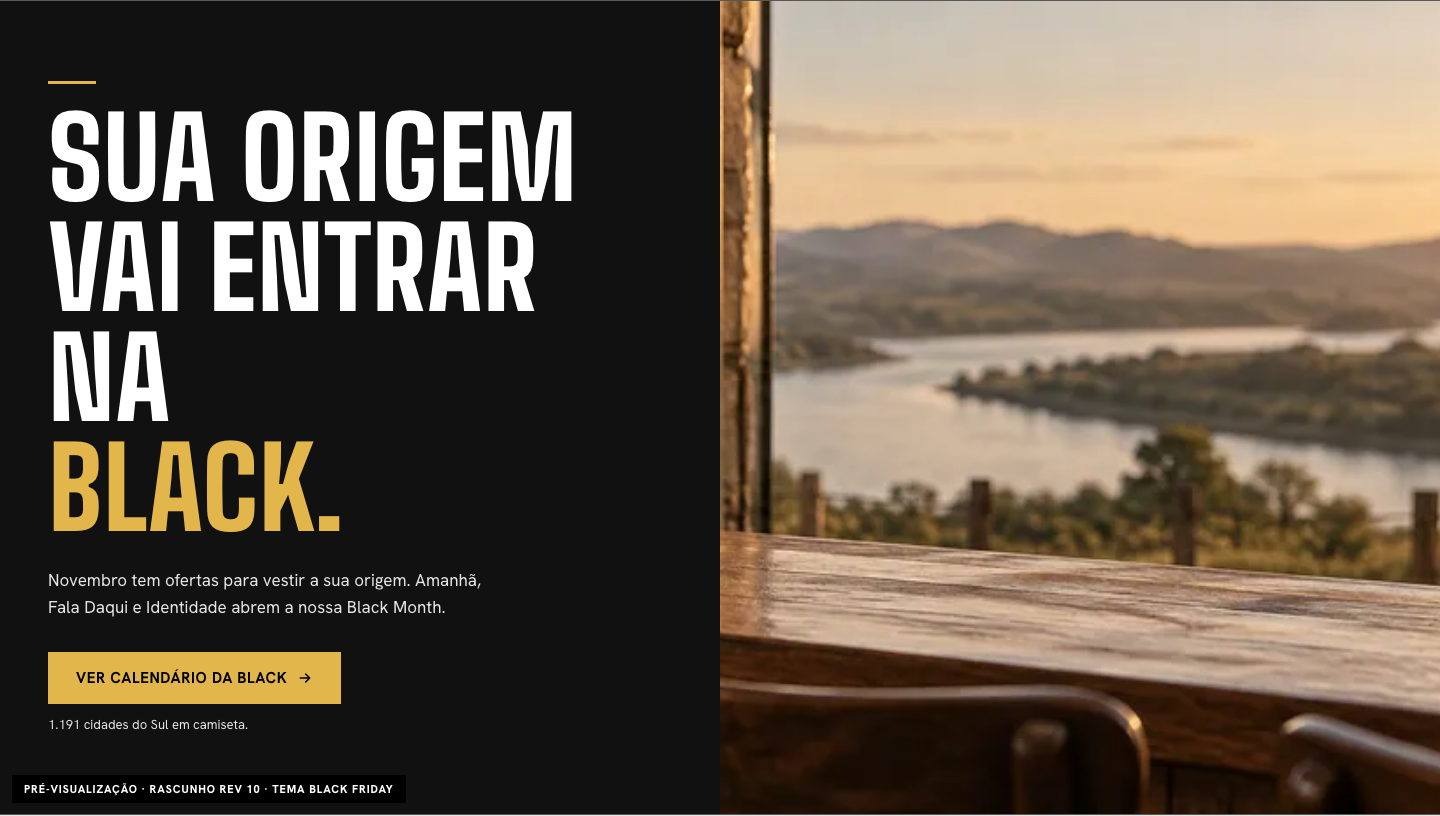
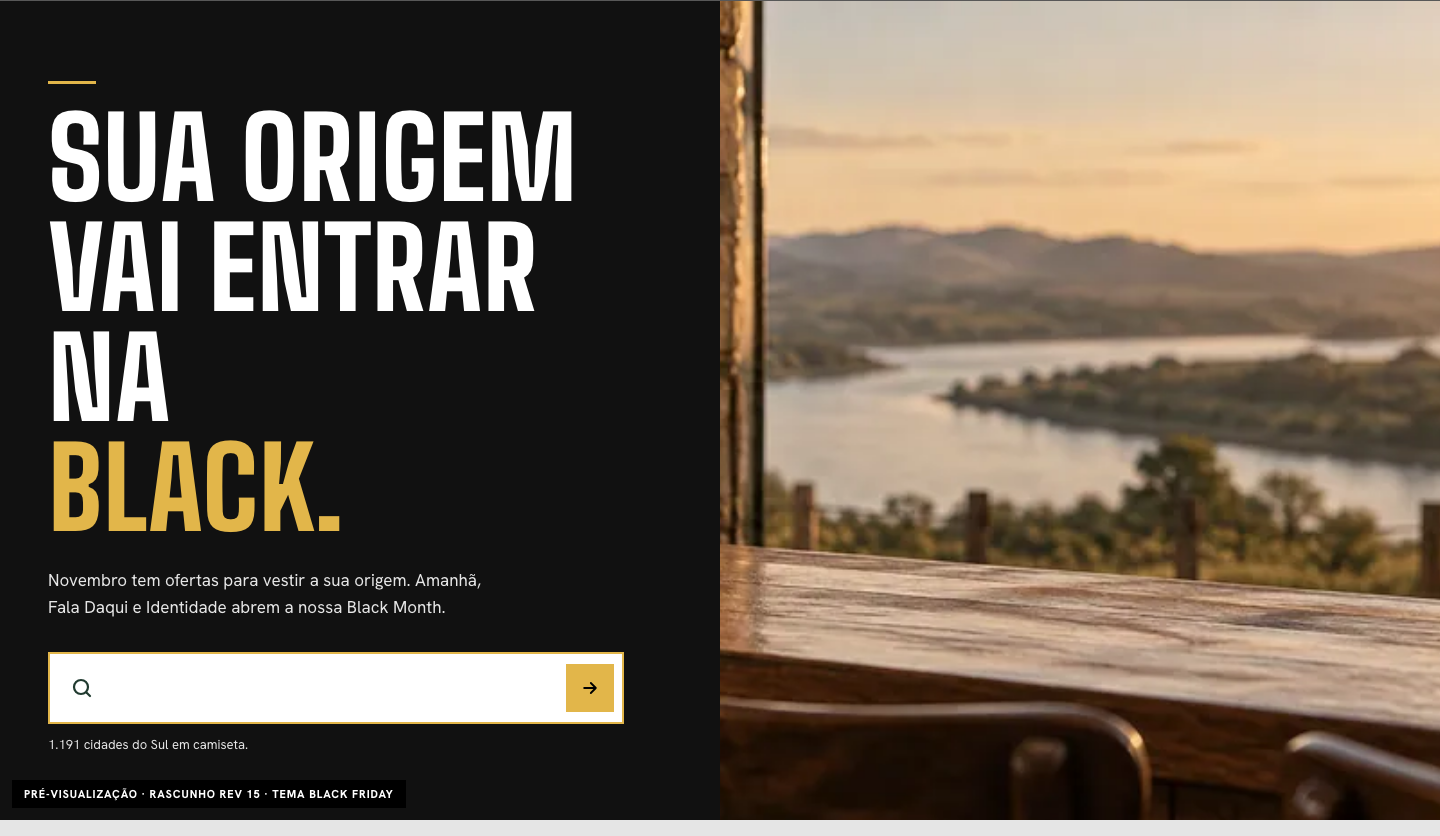
feat(storefront): botão na faixa de checkpoints ("Ver calendário da Black")
Pedido do dono: a abertura da home volta a ter a busca, e o caminho para o calendário fica na faixa das semanas, com um
botão ao lado do título (como o "Ver todos" das vitrines). O botão é editado no painel quando a composição é Checkpoints.

diff --git a/src/components/home/WeeklyCheckpoints.tsx b/src/components/home/WeeklyCheckpoints.tsx
@@ -85,12 +85,13 @@ function Card({ href, external, current, className, style, children }: { href: s
  * Phones keep it short: the current and the evidence weeks as cards, every other week as one line. From 1024px, all side by side. Server-rendered:
  * the lock turns when the page is regenerated after Brasília midnight.
  */
-export function WeeklyCheckpoints({ anchor, headingId, title, subtitle, items, opening = false }: { anchor: string; headingId: string; title: string; subtitle?: string; items: CheckpointView[]; /** It opens the page (the page hero hidden): its title is the page's h1, in the display face, under the opening's yellow rule. */ opening?: boolean }) {
+export function WeeklyCheckpoints({ anchor, headingId, title, subtitle, items, opening = false, cta }: { anchor: string; headingId: string; title: string; subtitle?: string; items: CheckpointView[]; /** It opens the page (the page hero hidden): its title is the page's h1, in the display face, under the opening's yellow rule. */ opening?: boolean; /** The strip's own button ("Ver calendário da Black"), beside its title like a shelf's "Ver todos". */ cta?: { label: string; href: string } }) {
   const running = items.find((it) => it.state === "current");
   const cols = { "--cp-cols": items.map((it) => (it.highlight ? "1.3fr" : "1fr")).join(" "), "--cp-n": `repeat(${items.length}, minmax(0, 1fr))` } as CSSProperties;
   return (
     <section id={anchor} aria-labelledby={headingId} className={`wrap ${opening ? "pb-12 pt-10 lg:pb-20 lg:pt-16" : "py-12 lg:py-20"}`} data-testid="checkpoints">
-      <div className="ground-plate mb-7 w-fit max-w-3xl lg:mb-9">
+      <div className="mb-7 flex flex-wrap items-end justify-between gap-x-6 gap-y-4 lg:mb-9">
+      <div className="ground-plate w-fit max-w-3xl">
         {opening ? (
           <>
             <span aria-hidden="true" className="mb-4 block h-[3px] w-12" style={{ background: HIGHLIGHT }} />
@@ -100,6 +101,13 @@ export function WeeklyCheckpoints({ anchor, headingId, title, subtitle, items, o
           <h2 id={headingId} className="t-h2 [text-wrap:balance]">{title}</h2>
         )}
         {subtitle && <p className={`t-body max-w-[60ch] text-ink-soft ${opening ? "mt-4" : "mt-2.5"}`}>{subtitle}</p>}
+      </div>
+      {cta && (
+        <a href={cta.href} className="ground-solid group inline-flex h-11 shrink-0 items-center gap-2 border-2 border-[var(--line)] px-4 text-[0.8125rem] font-bold uppercase tracking-[0.04em] transition-colors hover:border-current focus-visible:outline focus-visible:outline-2 focus-visible:outline-offset-4 sm:h-12">
+          {cta.label}
+          <Arrow />
+        </a>
+      )}
       </div>
       <div style={cols}>
         <p className="sr-only">{running ? `Em oferta agora: ${running.label}${running.period ? `, ${running.period}` : ""}.` : "Nenhuma semana em oferta hoje."}</p>

diff --git a/src/components/admin/SectionEditorForm.tsx b/src/components/admin/SectionEditorForm.tsx
@@ -399,14 +399,15 @@ export function SectionEditorForm({
         </fieldset>
       )}
 
-      {!regional && (section.template === "campaign" || section.template === "page-hero") && (
+      {!regional && (section.template === "campaign" || section.template === "page-hero" || (section.template === "image-grid" && variantNow === "checkpoints")) && (
         <fieldset className="space-y-4">
           <legend className="a-h2 mb-3">Botão</legend>
+          {section.template === "image-grid" && <p className="a-muted text-[0.8125rem]">Ao lado do título da faixa, como o “Ver todos” das vitrines: por exemplo “Ver calendário da Black”, levando para a hotpage do calendário.</p>}
           <div className="grid gap-4 md:grid-cols-2">
             <div>
               <label className="a-label" htmlFor="cta_kind">Destino</label>
               <select id="cta_kind" name="cta_kind" className="a-select" value={ctaKind} onChange={(e) => setCtaKind(e.target.value as typeof ctaKind)}>
-                <option value="none">Busca de cidade (padrão)</option>
+                <option value="none">{section.template === "image-grid" ? "Sem botão" : "Busca de cidade (padrão)"}</option>
                 <option value="collection-page">Página de uma coleção (no site)</option>
                 <option value="route">Página desta região (endereço)</option>
                 <option value="page">Hotpage ou categoria-pai publicada</option>

diff --git a/src/components/home/HomeSections.tsx b/src/components/home/HomeSections.tsx
@@ -330,7 +330,8 @@ export function HomeSections({
               }));
               // On a page whose hero gives way (hidden), the strip opens it: its title is the page's heading.
               const opening = Boolean(page) && !sections.some((x) => x.template === "page-hero") && sections[0]?.id === s.id;
-              return <WeeklyCheckpoints key={s.id} anchor={s.anchor} headingId={s.headingId} title={s.title} subtitle={s.subtitle} items={items} opening={opening} />;
+              const stripHref = s.cta ? destinationHref(s.cta.dest, links, region) : null;
+              return <WeeklyCheckpoints key={s.id} anchor={s.anchor} headingId={s.headingId} title={s.title} subtitle={s.subtitle} items={items} opening={opening} {...(s.cta && stripHref ? { cta: { label: s.cta.label, href: stripHref } } : {})} />;
             }
             const tiles = gridTiles(s, media, links, region, categories);
             if (tiles.length === 0) return null;

diff --git a/src/lib/admin/section-form.ts b/src/lib/admin/section-form.ts
@@ -332,6 +332,8 @@ export function parseSectionForm(f: Fields, section: Section): Partial<Editable>
     patch.customizerCard = undefined;
     patch.cta = undefined;
   }
+  // The checkpoints strip's button ("Ver calendário da Black"), posted only while that composition is chosen.
+  if (section.template === "image-grid" && f.get("cta_kind") !== null) patch.cta = parseCta(f);
   if (section.template === "campaign") {
     patch.fallback = str(f, "fallback") === "fill" ? "fill" : "crops";
     // No button configured = the original "Encontrar minha cidade" search; a label without a destination is dropped, never a dead link.

diff --git a/docs/temas-sazonais.md b/docs/temas-sazonais.md
@@ -51,6 +51,7 @@ Três peças, todas com dias no horário de Brasília, **os dois dias inclusive*
    - depois de encerrar: "Encerrada · 02–07/11", sem link (uma oferta encerrada nunca aparece como ativa);
    - entre duas semanas (por exemplo, 08/11), nenhuma fica ativa.
 
+   A faixa pode ter um **botão** ao lado do título (por exemplo "Ver calendário da Black", levando para a hotpage do calendário).
    O bloco marcado como **Destaque** (a Black Week) vem em amarelo. Com **"Ofertas acumulam"** ligado, a semana que passou continua valendo
    ("Valendo · 02–07/11", com o link) e só deixa de ser a semana atual. Desligado, ela aparece como "Encerrada".
 2. **Vitrines com período.** Em qualquer vitrine de produtos, em **Período da oferta**, preencha o primeiro e o último dia e o **rótulo enquanto
